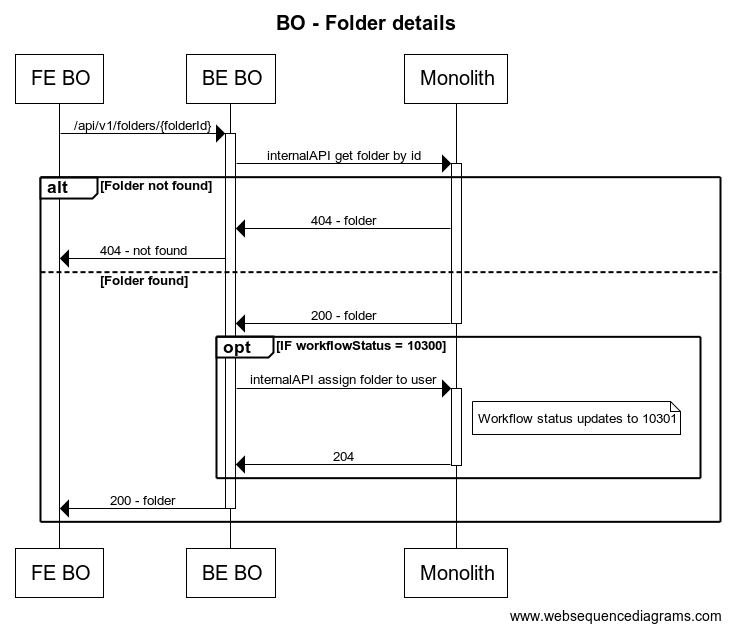
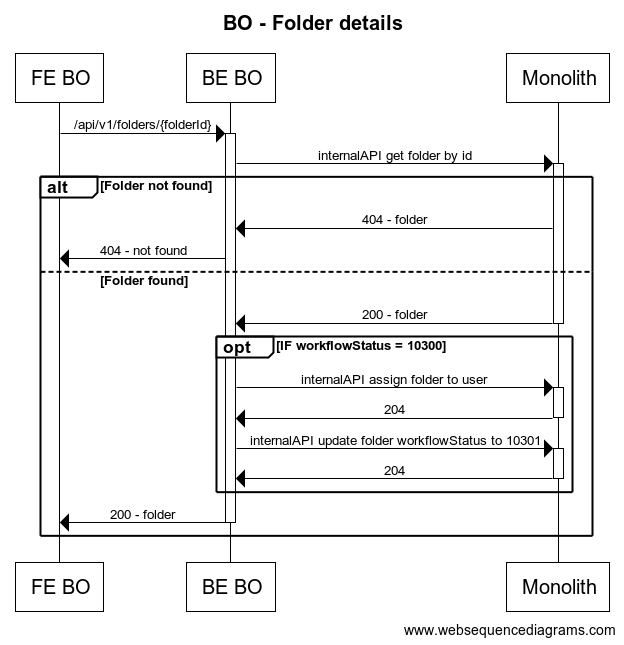
Revert "Task/kc 1222 remove extra update status call"

diff --git a/tests/Unit/Service/FolderServiceTest.php b/tests/Unit/Service/FolderServiceTest.php
@@ -65,6 +65,12 @@ class FolderServiceTest extends BaseApiTest
         $personModelResponse = PersonData::createPersonModelResponse();
         $personModelResponse->setFolderId($folderId);
 
+        $updateStatusWorkflowModel = new UpdateStatusWorkflowModel();
+        $updateStatusWorkflowModel
+            ->setUserDossierId($folderId)
+            ->setStatusWorkflow(10301)
+            ->setAdministratorId(1);
+
         $this->internalApiFolderService->getFolderById($folderId)
             ->shouldBeCalledOnce()
             ->willReturn($folderByIdModelResponse);
@@ -72,6 +78,8 @@ class FolderServiceTest extends BaseApiTest
         $this->internalApiFolderService->getPersonsByFolderId($folderId, $filters)
             ->shouldBeCalledOnce()
             ->willReturn([$personModelResponse]);
+
+        $this->internalApiFolderService->updateStatusWorkflow($updateStatusWorkflowModel)->shouldBeCalledOnce();
 
         $this->authenticator->getLoggedUserData()->shouldBeCalledOnce()->willReturn(['userId' => 1]);
 
@@ -96,6 +104,12 @@ class FolderServiceTest extends BaseApiTest
         $personModelResponse = PersonData::createPersonModelResponse();
         $personModelResponse->setFolderId($folderId);
 
+        $updateStatusWorkflowModel = new UpdateStatusWorkflowModel();
+        $updateStatusWorkflowModel
+            ->setUserDossierId($folderId)
+            ->setStatusWorkflow(10300)
+            ->setAdministratorId(1);
+
         $this->internalApiFolderService->getFolderById($folderId)
             ->shouldBeCalledOnce()
             ->willReturn($folderByIdModelResponse);
@@ -103,6 +117,8 @@ class FolderServiceTest extends BaseApiTest
         $this->internalApiFolderService->getPersonsByFolderId($folderId, $filters)
             ->shouldBeCalledOnce()
             ->willReturn([]);
+
+        $this->internalApiFolderService->updateStatusWorkflow($updateStatusWorkflowModel)->shouldNotBeCalled();
 
         $this->authenticator->getLoggedUserData()->shouldNotBeCalled();
 
@@ -130,11 +146,19 @@ class FolderServiceTest extends BaseApiTest
         $personModelResponse = PersonData::createPersonModelResponse();
         $personModelResponse->setFolderId($folderId);
 
+        $updateStatusWorkflowModel = new UpdateStatusWorkflowModel();
+        $updateStatusWorkflowModel
+            ->setUserDossierId($folderId)
+            ->setStatusWorkflow(10300)
+            ->setAdministratorId(1);
+
         $this->internalApiFolderService->getFolderById($folderId)
             ->shouldBeCalledOnce()
             ->willThrow(new KycResourceNotFoundException(sprintf('Folder with id %d not found', $folderId)));
 
         $this->internalApiFolderService->getPersonsByFolderId($folderId, $filters)->shouldNotBeCalled();
+
+        $this->internalApiFolderService->updateStatusWorkflow($updateStatusWorkflowModel)->shouldNotBeCalled();
 
         $this->authenticator->getLoggedUserData()->shouldNotBeCalled();
 
@@ -160,6 +184,12 @@ class FolderServiceTest extends BaseApiTest
             ->setFirstName('first')
             ->setLastName('last');
 
+        $updateStatusWorkflowModel = new UpdateStatusWorkflowModel();
+        $updateStatusWorkflowModel
+            ->setUserDossierId($folderId)
+            ->setStatusWorkflow(10301)
+            ->setAdministratorId(1);
+
         $this->internalApiFolderService->getFolderById($folderId)
             ->shouldBeCalledOnce()
             ->willReturn($folderByIdModelResponse);
@@ -167,6 +197,8 @@ class FolderServiceTest extends BaseApiTest
         $this->internalApiFolderService->getPersonsByFolderId($folderId, $filters)
             ->shouldBeCalledOnce()
             ->willReturn([$personModelResponse]);
+
+        $this->internalApiFolderService->updateStatusWorkflow($updateStatusWorkflowModel)->shouldNotBeCalled();
 
         $this->authenticator->getLoggedUserData()->shouldBeCalledOnce()->willReturn(['userId' => 1]);
 

diff --git a/src/Service/FolderService.php b/src/Service/FolderService.php
@@ -88,6 +88,11 @@ class FolderService
 
                     $this->internalApiFolderService->assignAdministratorToFolder($administratorId, $folderId);
 
+                    $this->updateWorkflowStatus(
+                        $folderById->getId(),
+                        [InternalApiFolderEnum::WORKFLOW_STATUS_CAMEL_CASE => FolderEnum::WORKFLOW_STATUS_IN_PROGRESS_BY_WEBHELP],
+                        $administratorId
+                    );
                     $folderById->setWorkflowStatus(FolderEnum::WORKFLOW_STATUS_IN_PROGRESS_BY_WEBHELP);
                 } catch (InternalAPIInvalidDataException $exception) {
                     $this->logger->error($exception->getMessage(), [$exception->getTrace()]);

diff --git a/Docs/Folder/Details.md b/Docs/Folder/Details.md
@@ -59,9 +59,7 @@ Content-Type: application/json
 #### Assign folder to user
 This API will also assign the folder to the active user by calling the 
 `/internalAPI/folders/assign` in [Monolith](../Monolith.md). The active user id can be retrieved
-by decoding the [JWT token](../Authentification/Authentication.md#decoding-the-jwt).
-In the Monolith the `setAffectation` method is called in order to assign folder to the administrator,
-where the workflow status update to 10301 will happen automatically. 
+by decoding the [JWT token](../Authentification/Authentication.md#decoding-the-jwt)
 
 ### Flow
 ![Folder details](../assets/Folder%20details.png)

diff --git a/Docs/assets/Folder details.md b/Docs/assets/Folder details.md
@@ -13,8 +13,10 @@ else Folder found
     Monolith->-BE BO: 200 - folder
     opt IF workflowStatus = 10300
         BE BO->+Monolith: internalAPI assign folder to user
-        note right of Monolith: Workflow status updates to 10301
         Monolith->-BE BO: 204
+        
+        BE BO->+Monolith: internalAPI update folder workflowStatus to 10301
+        Monolith->-BE BO: 204 
     end
 BE BO->-FE BO: 200 - folder
 end
